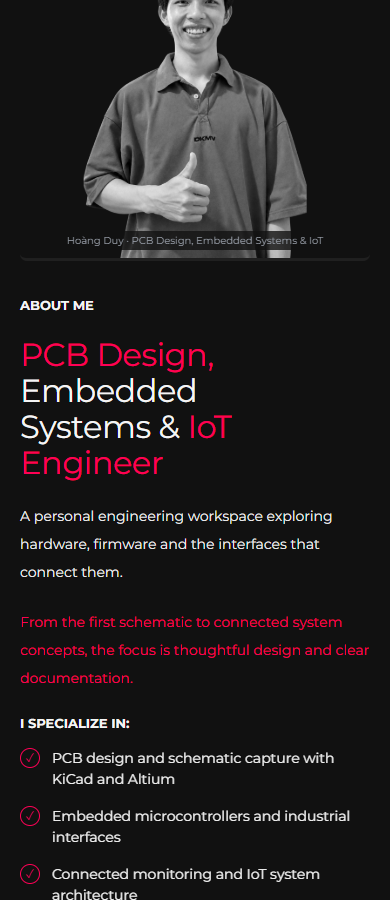
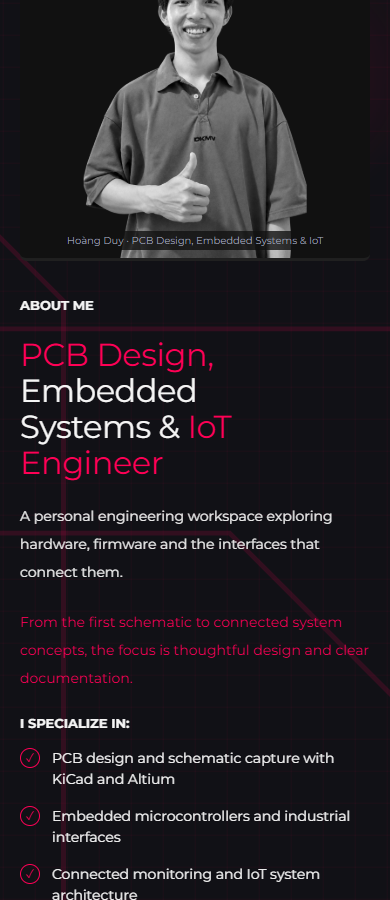
Add continuous PCB ambient background and compact topic ticker

diff --git a/src/components/PortfolioHome.tsx b/src/components/PortfolioHome.tsx
@@ -3,7 +3,6 @@ import { useState, type ReactNode } from 'react';
 import Link from 'next/link';
 import Image from 'next/image';
 import { boards } from '@/lib/projects';
-import { ReferenceIcon } from './ReferenceIcon';
 import { portrait, aboutPortrait } from '@/data/portfolio-media';
 import { usePortfolioMotion } from '@/hooks/usePortfolioMotion';
 import { useAnimatedPanel } from '@/hooks/useAnimatedPanel';
@@ -11,7 +10,6 @@ import { AnimatedRegion } from './animation/AnimatedRegion';
 import { AnimatedFAQ } from './animation/AnimatedFAQ';
 import { AnimatedCounter } from './animation/AnimatedCounter';
 import { ContactForm, SendEmail } from './ContactForm';
-import { CircuitBackground } from './backgrounds/CircuitBackground';
 import { ProjectCard } from './ProjectCard';
 import { ResumeDownload } from './ResumeDownload';
 import { VisionMarquee } from './VisionMarquee';
@@ -21,21 +19,18 @@ import { TechnicalSkills } from './TechnicalSkills';
 export function Heading({label,children,description}:{label:string;children:ReactNode;description?:string}){return <div className="ref-heading"><span>{label}</span><h2>{children}</h2>{description&&<p>{description}</p>}</div>}
 export function Action({children,outline=false,href='#contact'}:{children:ReactNode;outline?:boolean;href?:string}){return <Link className={'ref-button'+(outline?' outline':'')} href={href}>{children}</Link>}
 export function Socials(){return <PortfolioSocials/>}
-const capabilities=[['ϟ','PCB LAYOUT & ROUTING','Production-minded Design','Component placement, signal routing and clear manufacturing documentation.','KiCad · Altium'],['♡','EMBEDDED MICROCONTROLLERS','Connected Control','Microcontroller architecture, peripheral interfaces and firmware integration.','STM32 · ESP32'],['♧','INDUSTRIAL COMMUNICATION','Reliable Interfaces','System planning for robust communication between connected devices.','CAN · RS485'],['↔','ANALOG & DIGITAL INTERFACES','Clear Signal Paths','Sensor acquisition, digital control and interface protection studies.','ADC · GPIO'],['▱','POWER SUPPLY DESIGN','Thoughtful Power','Power architecture, regulation and distribution for embedded systems.','DC/DC · LDO'],['◇','IoT CONNECTIVITY','Remote Visibility','Connected hardware concepts for monitoring, telemetry and control.','Ethernet · Cellular']];
 export function CaseStudy({index=0}:{index?:number}){const board=boards[index];return <article className={'ref-case'+(!index?' featured':'')}><div className="ref-tags"><span>{!index?'Featured project':'Personal project'}</span><span>{board.name}</span></div><h3>{board.name}</h3><p className="ref-role">♧ Personal hardware & PCB design project</p><p className="ref-period">Original project image · Design documentation</p><h4>THE PROJECT</h4><p>{board.description}</p><h4>PROJECT WORK</h4><ul>{board.features.map(x=><li key={x}>{x}</li>)}</ul><h4>DESIGN SCOPE</h4><div className="ref-results">{board.scope.map(x=><div key={x}><strong><AnimatedCounter text={x}/></strong><small>Project scope</small></div>)}</div><h4>TECH STACK</h4><div className="ref-tags">{board.techStack.map(x=><span key={x}>{x}</span>)}</div></article>}
 export function PortfolioHome(){const[expanded,setExpanded]=useState(false);const{value:education,select:setEducation,panelRef}=useAnimatedPanel(false);const motionScope=usePortfolioMotion();return <div className="reference-home" ref={motionScope}>
-<section className="ref-hero ref-container circuit-section"><div><div className="ref-available"><i/>Open to Embedded & Hardware Engineering Opportunities</div><h1>Designing PCBs. Building Embedded Systems. Connecting Hardware.</h1><p className="ref-title">PCB Design | Embedded Systems | IoT Development</p><p className="ref-lead">I focus on electronic hardware design, from schematic development and multilayer PCB layout to microcontroller-based systems and industrial communication interfaces.</p><div className="ref-highlights"><span><b>PCB Design</b> KiCad & Altium</span><span><b>Embedded</b> STM32 & ESP32</span><span><b>IoT</b> Hardware Connectivity</span></div><blockquote><em>From schematic to PCB layout, firmware integration, and connected systems.</em><small>— Engineering Focus</small></blockquote><div className="ref-actions"><Action href="#projects">▱ View My Projects</Action><ResumeDownload outline/></div><p className="ref-note">Open to PCB design, embedded hardware and connected-system projects.</p><Socials/></div><figure className="ref-hero-art"><div className="ref-circle"/><div className="ref-portrait-window"><Image src={portrait.src} width={portrait.width} height={portrait.height} alt={portrait.alt} sizes="(max-width: 799px) 90vw, 520px" loading="eager" fetchPriority="high"/></div><figcaption>{portrait.caption}</figcaption></figure><CircuitBackground/></section>
+<section className="ref-hero ref-container circuit-section"><div><div className="ref-available"><i/>Open to Embedded & Hardware Engineering Opportunities</div><h1>Designing PCBs. Building Embedded Systems. Connecting Hardware.</h1><p className="ref-title">PCB Design | Embedded Systems | IoT Development</p><p className="ref-lead">I focus on electronic hardware design, from schematic development and multilayer PCB layout to microcontroller-based systems and industrial communication interfaces.</p><div className="ref-highlights"><span><b>PCB Design</b> KiCad & Altium</span><span><b>Embedded</b> STM32 & ESP32</span><span><b>IoT</b> Hardware Connectivity</span></div><blockquote><em>From schematic to PCB layout, firmware integration, and connected systems.</em><small>— Engineering Focus</small></blockquote><div className="ref-actions"><Action href="#projects">▱ View My Projects</Action><ResumeDownload outline/></div><p className="ref-note">Open to PCB design, embedded hardware and connected-system projects.</p><Socials/></div><figure className="ref-hero-art"><div className="ref-circle"/><div className="ref-portrait-window"><Image src={portrait.src} width={portrait.width} height={portrait.height} alt={portrait.alt} sizes="(max-width: 799px) 90vw, 520px" loading="eager" fetchPriority="high"/></div><figcaption>{portrait.caption}</figcaption></figure></section>
 <section className="ref-container ref-trust"><p>Engineering tools & platforms</p><div className="ref-tools">{['KiCad','Altium Designer','STM32','ESP32','JLCPCB'].map(x=><span key={x}>♧ &nbsp;{x}</span>)}</div><div className="ref-domain-grid">{[["HARDWARE","Hardware design","PCB schematic & layout"],["FIRMWARE","Firmware integration","Microcontrollers & interfaces"],["SOFTWARE","Software interfaces","Dashboards & monitoring"],["IoT","Connected systems","Sensors, telemetry & control"]].map(([label,title,description])=><article key={label}><span>{label}</span><h3>{title}</h3><p>{description}</p></article>)}</div></section>
 <section id="case-studies" className="ref-container ref-section"><Heading label="ENGINEERING STUDIES" description="My personal hardware projects, with original board images and design documentation.">Featured <em>Case Studies</em></Heading><CaseStudy/><div className="ref-two ref-case-grid"><CaseStudy index={1}/><CaseStudy index={2}/></div><div className="ref-strategy"><p>Have a hardware challenge to explore?</p><ResumeDownload/></div></section>
 <VisionMarquee/>
-<section id="projects" className="ref-container ref-section circuit-section"><Heading label="SELECTED WORK" description="Five personal PCB and embedded hardware projects. ESP32 Devkit, IoT Board and ESP32 Datalogger are featured first.">Recent <em>Projects</em></Heading><div className="ref-three ref-projects">{boards.slice(0,3).map(board=><ProjectCard key={board.slug} board={board}/>)}</div><AnimatedRegion open={expanded} id="additional-projects"><div className="ref-three ref-projects ref-extra">{boards.slice(3).map(board=><ProjectCard key={board.slug} board={board}/>)}</div></AnimatedRegion><button className="ref-expand" aria-controls="additional-projects" onClick={()=>setExpanded(!expanded)} aria-expanded={expanded}>{expanded?'▾ Show fewer projects':'▸ View 2 more projects'}</button><CircuitBackground variant="transition"/></section>
+<section id="projects" className="ref-container ref-section circuit-section"><Heading label="SELECTED WORK" description="Five personal PCB and embedded hardware projects. ESP32 Devkit, IoT Board and ESP32 Datalogger are featured first.">Recent <em>Projects</em></Heading><div className="ref-three ref-projects">{boards.slice(0,3).map(board=><ProjectCard key={board.slug} board={board}/>)}</div><AnimatedRegion open={expanded} id="additional-projects"><div className="ref-three ref-projects ref-extra">{boards.slice(3).map(board=><ProjectCard key={board.slug} board={board}/>)}</div></AnimatedRegion><button className="ref-expand" aria-controls="additional-projects" onClick={()=>setExpanded(!expanded)} aria-expanded={expanded}>{expanded?'▾ Show fewer projects':'▸ View 2 more projects'}</button></section>
 <section id="about" className="ref-container ref-about ref-section"><figure><Image src={aboutPortrait.src} alt={aboutPortrait.alt} width={aboutPortrait.width} height={aboutPortrait.height} sizes="(max-width: 799px) 90vw, 565px"/><figcaption>{aboutPortrait.caption}</figcaption></figure><div><span className="ref-label">ABOUT ME</span><h2><em>PCB Design,</em> Embedded<br/>Systems & <em>IoT Engineer</em></h2><p>A personal engineering workspace exploring hardware, firmware and the interfaces that connect them.</p><p className="pink">From the first schematic to connected system concepts, the focus is thoughtful design and clear documentation.</p><h4>I SPECIALIZE IN:</h4><ul className="ref-checks"><li>PCB design and schematic capture with KiCad and Altium</li><li>Embedded microcontrollers and industrial interfaces</li><li>Connected monitoring and IoT system architecture</li></ul><aside>✧ &nbsp; The project images show my personal board designs. Detailed test results and manufacturing status are not published.</aside><Socials/></div></section>
-<section className="ref-container ref-section"><Heading label="WHY THOUGHTFUL ENGINEERING MATTERS" description="Every design starts with system requirements: clear interfaces, maintainable circuits and a practical path to validation."><em>Capabilities</em> I Deliver,<br/>From Circuit to <em>System</em></Heading><div className="ref-three ref-capabilities">{capabilities.map(([icon,title,sub,desc,tags])=><article key={title}><span><ReferenceIcon symbol={icon}/></span><h4>{title}</h4><p className="pink">{sub}</p><p>{desc}</p><div className="ref-tags"><b>{tags}</b><b>Engineering studies</b></div></article>)}</div></section>
 <section id="resume" className="ref-container ref-section"><Heading label="PROJECT-BASED BACKGROUND" description="My personal hardware and embedded-system projects. Employment and education details will be added when supplied.">Engineering <em>Experience</em></Heading><div className="ref-tabs" role="tablist" aria-label="Background" onKeyDown={event=>{if(["ArrowLeft","ArrowRight","Home","End"].includes(event.key)){event.preventDefault();const next=event.key==="Home"?false:event.key==="End"?true:!education;setEducation(next);document.getElementById(next?"education-tab":"experience-tab")?.focus();}}}><button role="tab" id="experience-tab" aria-controls="career-panel" tabIndex={education?-1:0} aria-selected={!education} onClick={()=>setEducation(false)}>Experience</button><button role="tab" id="education-tab" aria-controls="career-panel" tabIndex={education?0:-1} aria-selected={education} onClick={()=>setEducation(true)}>Education</button></div><div className="ref-timeline" ref={panelRef} role="tabpanel" id="career-panel" aria-labelledby={education?"education-tab":"experience-tab"}>{education?<article><h3>Education details</h3><p>Education and qualifications will be added when provided by the portfolio owner.</p></article>:boards.map(board=><article key={board.slug}><i>▣</i><h3>{board.name}</h3><div className="timeline-role"><strong>Personal Hardware & PCB Project</strong><span>Personal project</span></div><div className="ref-tags"><span>PCB Design</span><span>Interfaces</span><span>Documentation</span></div><ul>{board.features.map(x=><li key={x}>{x}</li>)}</ul></article>)}</div></section>
 <TechnicalSkills/>
-<section className="ref-container ref-section"><Heading label="LET’S CONNECT" description="Whether you need engineering support for your project or you’re building your team, let’s discuss the requirements."><em>Work</em> With Me</Heading><div className="ref-two ref-work"><article><span className="ref-icon">♧</span><h3>Have a Hardware Project in Mind?</h3><p>From PCB layout to embedded interfaces and IoT architecture, share your requirements and let&apos;s explore the next step.</p><ResumeDownload/></article><article><span className="ref-icon">♙</span><h3>Open to Engineering Opportunities</h3><p>Interested in thoughtful hardware, embedded systems and connected-product work.</p><h4>Areas of interest:</h4><ul className="ref-checks"><li>PCB design and schematic capture</li><li>Embedded hardware development</li><li>Industrial interfaces and connectivity</li><li>Teams that value clear documentation</li></ul><Action outline href="#resume">♧ &nbsp; View Experience</Action><p className="work-direct">Or reach out directly:</p><a href="#contact">▣ &nbsp; Start a Conversation</a></article></div></section>
 <section id="faq" className="ref-container ref-section"><Heading label="QUESTIONS & ANSWERS" description="Common questions about engineering services, project scope and how I work.">Frequently Asked <em>Questions</em></Heading><div className="ref-faq">{[['What PCB design software do you use?','The workspace includes KiCad and Altium Designer studies. Tool choice depends on your project requirements.'],['Can you support hardware prototyping?','Prototype scope, assembly and validation requirements are agreed for each project.'],['Do you design multi-layer PCBs?','Layer count and stackup are selected according to routing, signal and power requirements.'],['Do you work with STM32 and ESP32?','These platforms are included in the embedded hardware design scope.'],['Which microcontrollers do you work with?','STM32, ESP32 and other devices can be considered based on your application.'],['Can you integrate IoT connectivity?','Connectivity architecture may include Ethernet, wireless and cellular interfaces.'],['Can you develop industrial interfaces?','CAN, RS485 and analog or digital interface planning can be scoped for your system.'],['Do you offer schematic reviews?','Reviews can cover architecture, interfaces, component selection and design documentation.'],['Do you provide manufacturing files?','Agreed deliverables can include BOM, Gerbers and assembly documentation after design review.'],['Can you help debug existing PCB designs?','Share schematics, symptoms and available measurements to establish a review and debugging scope.']].map(([q,a])=><AnimatedFAQ key={q} question={q} answer={a}/>)}</div></section>
-<section id="contact" className="ref-container ref-section ref-contact circuit-section"><div><span className="ref-label">GET IN TOUCH</span><h2>Let&apos;s Talk For your <em>Next Project(s)</em></h2><p>Discuss a project or just want to say hi? Share your requirements, explore my <a href="#case-studies">case studies</a>, review my <a href="#technical-skills">technical skills</a>, or check my <a href="#resume">engineering background.</a></p><ul className="ref-checks"><li>PCB design and schematic capture</li><li>Embedded systems and microcontrollers</li><li>Industrial communication interfaces</li><li>Connected hardware and IoT architecture</li></ul><div className="ref-contact-actions"><Socials/><SendEmail/></div></div><ContactForm/><CircuitBackground variant="contact"/></section>
+<section id="contact" className="ref-container ref-section ref-contact circuit-section"><div><span className="ref-label">GET IN TOUCH</span><h2>Let&apos;s Talk For your <em>Next Project(s)</em></h2><p>Discuss a project or just want to say hi? Share your requirements, explore my <a href="#case-studies">case studies</a>, review my <a href="#technical-skills">technical skills</a>, or check my <a href="#resume">engineering background.</a></p><ul className="ref-checks"><li>PCB design and schematic capture</li><li>Embedded systems and microcontrollers</li><li>Industrial communication interfaces</li><li>Connected hardware and IoT architecture</li></ul><div className="ref-contact-actions"><Socials/><SendEmail/></div></div><ContactForm/></section>
 </div>}
 
 

diff --git a/src/app/pcb-ambient.css b/src/app/pcb-ambient.css
@@ -1,0 +1,25 @@
+/* One viewport-sized PCB surface behind the entire application. */
+:root{--background:#111116;--page-base:#111116}
+body{background:#111116;isolation:isolate}
+.pcb-ambient{position:fixed;inset:0;z-index:-1;pointer-events:none;overflow:hidden;background:#111116;contain:paint}
+.pcb-ambient-grid{position:absolute;inset:-32px;background-image:linear-gradient(to right,rgba(255,0,85,.065) 1px,transparent 1px),linear-gradient(to bottom,rgba(255,0,85,.065) 1px,transparent 1px);background-size:32px 32px;animation:pcb-grid-drift 25s linear infinite;will-change:transform}
+.pcb-ambient-glow{position:absolute;width:260px;height:260px;top:-65px;left:40%;border-radius:50%;background:radial-gradient(circle,rgba(255,0,85,.18),transparent 70%);animation:pcb-glow-drift 9s ease-in-out infinite alternate;will-change:transform}
+.pcb-ambient-circuits{position:absolute;inset:0;width:100%;height:100%;display:block}
+.pcb-ambient-traces{stroke:#ff0055;stroke-opacity:.19;stroke-width:1.4;fill:none}
+.pcb-ambient-signals{stroke:#ff0055;stroke-width:2.5;stroke-linecap:round;stroke-dasharray:8 290;fill:none}
+.pcb-ambient-pulse{animation:pcb-signal-travel 5s linear infinite}
+.pcb-ambient-pulse-second{animation-duration:7s;animation-delay:-2.5s}
+.pcb-ambient-nodes{fill:#ff0055;opacity:.65}
+.pcb-ambient[data-paused="true"] *{animation-play-state:paused!important}
+.site-header{background:transparent}
+.site-footer{background:rgba(31,31,31,.78)}
+@keyframes pcb-grid-drift{from{transform:translate(0,0)}to{transform:translate(32px,32px)}}
+@keyframes pcb-glow-drift{from{transform:translate(0,0)}to{transform:translate(110px,80px)}}
+@keyframes pcb-signal-travel{from{stroke-dashoffset:0}to{stroke-dashoffset:-298}}
+
+/* Compact technical ticker, with identical groups for a seamless loop. */
+.vision-marquee{padding:14px 0;border-block:1px solid #ff00551a;background:#17131a88;mask-image:linear-gradient(90deg,transparent,#000 3%,#000 97%,transparent)}
+.vision-marquee-group span{font-family:ui-monospace,SFMono-Regular,Consolas,monospace;font-size:12px;line-height:1.5;font-weight:500;letter-spacing:1px;color:#b98c9c;text-shadow:none;gap:32px;padding-right:32px}
+.vision-marquee-group i{font-size:12px;color:#ff0055;opacity:.6}
+@media(max-width:799px){.pcb-ambient-grid,.pcb-ambient-glow,.pcb-ambient-circuits{opacity:.72}}
+@media(prefers-reduced-motion:reduce){.pcb-ambient-grid,.pcb-ambient-glow,.pcb-ambient-pulse{animation:none;will-change:auto}}

diff --git a/src/app/layout.tsx b/src/app/layout.tsx
@@ -2,12 +2,14 @@ import type { Metadata } from 'next';
 import { Header } from '@/components/Header';
 import { Footer } from '@/components/Footer';
 import { site } from '@/data/site';
+import { PCBAnimatedBackground } from '@/components/backgrounds/PCBAnimatedBackground';
 import './globals.css';
 import './workspace.css';
 import './reference.css';
+import './pcb-ambient.css';
 export const metadata: Metadata = { metadataBase: new URL(site.url), title: { default: 'Hardware Lab — Engineering in every layer', template: '%s | Hardware Lab' }, description: site.description, alternates: { canonical: '/' }, openGraph: { title: site.name, description: site.description, type: 'website', images: [{ url: '/assets/social.png', width: 1200, height: 630, alt: 'Hardware Lab engineering studio' }] }, robots: process.env.NEXT_PUBLIC_SITE_URL ? { index: true, follow: true } : { index: false, follow: false } };
 export default function RootLayout({ children }: { children: React.ReactNode }) {
-  return <html lang="en" data-scroll-behavior="smooth"><head><link rel="preload" href="/assets/fonts/montserrat-900.ttf" as="font" type="font/ttf" crossOrigin="anonymous"/><link rel="preload" href="/assets/fonts/montserrat-400.ttf" as="font" type="font/ttf" crossOrigin="anonymous"/><link rel="preload" href="/assets/fonts/pacifico-400.ttf" as="font" type="font/ttf" crossOrigin="anonymous"/></head><body><a className="skip-link" href="#main">Skip to content</a><Header /><main id="main">{children}</main><Footer /></body></html>;
+  return <html lang="en" data-scroll-behavior="smooth"><head><link rel="preload" href="/assets/fonts/montserrat-900.ttf" as="font" type="font/ttf" crossOrigin="anonymous"/><link rel="preload" href="/assets/fonts/montserrat-400.ttf" as="font" type="font/ttf" crossOrigin="anonymous"/><link rel="preload" href="/assets/fonts/pacifico-400.ttf" as="font" type="font/ttf" crossOrigin="anonymous"/></head><body><PCBAnimatedBackground/><a className="skip-link" href="#main">Skip to content</a><Header /><main id="main">{children}</main><Footer /></body></html>;
 }
 
 

diff --git a/src/components/backgrounds/PCBAnimatedBackground.tsx b/src/components/backgrounds/PCBAnimatedBackground.tsx
@@ -1,0 +1,30 @@
+'use client';
+import {useEffect,useRef} from 'react';
+
+const traces=[
+ 'M-10 54 H135 L176 95 H390 L430 55 H620',
+ 'M-10 200 H105 L151 154 H310 L365 209 H620',
+ 'M480 -10 V80 L448 112 V180 L510 242',
+ 'M220 -10 V45 L262 87 V260',
+ 'M-10 116 H60 L91 147',
+];
+const nodes=[[176,95],[390,95],[151,154],[448,112]];
+
+/** A single, persistent decorative layer. CSS owns every animation frame. */
+export function PCBAnimatedBackground(){
+ const ref=useRef<HTMLDivElement>(null);
+ useEffect(()=>{
+  const update=()=>{if(ref.current)ref.current.dataset.paused=String(document.hidden);};
+  update();document.addEventListener('visibilitychange',update);
+  return ()=>document.removeEventListener('visibilitychange',update);
+ },[]);
+ return <div ref={ref} className="pcb-ambient" aria-hidden="true">
+  <div className="pcb-ambient-grid"/>
+  <div className="pcb-ambient-glow"/>
+  <svg className="pcb-ambient-circuits" viewBox="0 0 600 260" preserveAspectRatio="xMidYMid slice" focusable="false">
+   <g className="pcb-ambient-traces">{traces.map(d=><path key={d} d={d}/>)}</g>
+   <g className="pcb-ambient-signals"><path className="pcb-ambient-pulse" d={traces[0]}/><path className="pcb-ambient-pulse pcb-ambient-pulse-second" d={traces[1]}/></g>
+   <g className="pcb-ambient-nodes">{nodes.map(([cx,cy])=><circle key={`${cx}-${cy}`} cx={cx} cy={cy} r="3"/>)}</g>
+  </svg>
+ </div>;
+}

diff --git a/src/components/VisionMarquee.tsx b/src/components/VisionMarquee.tsx
@@ -1,8 +1,8 @@
-const phrase='IOT VISION FROM LAB TO LIFE';
+const topics=['PCB DESIGN','IOT','FIRMWARE','WEARABLE TECH','AI','EMBEDDED SYSTEMS'];
 export function VisionMarquee(){
-  return <section className="vision-marquee" aria-label={phrase}>
+  return <section className="vision-marquee" aria-label={topics.join(' · ')}>
     <div className="vision-marquee-track" aria-hidden="true">
-      {[0,1].map(copy=><div className="vision-marquee-group" key={copy}>{[0,1,2].map(index=><span key={index}>{phrase}<i>✦</i></span>)}</div>)}
+      {[0,1].map(copy=><div className="vision-marquee-group" key={copy}>{[0,1].map(repeat=>topics.map(topic=><span key={`${repeat}-${topic}`}>{topic}<i>·</i></span>))}</div>)}
     </div>
   </section>;
 }

diff --git a/docs/pcb-ambient/README.md b/docs/pcb-ambient/README.md
@@ -1,0 +1,22 @@
+# Continuous PCB ambient background
+
+The background is mounted once in the application layout and remains fixed across Home, Boards and project details. The old per-section circuit components are no longer rendered.
+
+## Files changed
+- src/components/backgrounds/PCBAnimatedBackground.tsx: deterministic SVG routes and four nodes; hidden-tab pause without frame-driven React state.
+- src/app/pcb-ambient.css: 32px grid, pink glow, signal keyframes, continuous header/footer integration, reduced motion and compact ticker styling.
+- src/app/layout.tsx: mount the background once and load its styles after the reference stylesheet.
+- src/components/PortfolioHome.tsx: remove Capabilities and Work With Me; remove per-section backgrounds.
+- src/components/VisionMarquee.tsx: PCB DESIGN / IOT / FIRMWARE / WEARABLE TECH / AI / EMBEDDED SYSTEMS with dot separators.
+- scripts/check-pcb-ambient.mjs: geometry, timing, continuity, navigation, mobile and accessibility checks.
+
+## Verification
+- Exact supplied five SVG paths, viewBox 0 0 600 260, xMidYMid slice and four nodes.
+- Grid: 32px, 25s diagonal translation. Glow: 260px, 9s alternate. Pulses: 5s and 7s, second delay -2.5s.
+- Motion advances without scrolling, pauses when the tab is hidden, and becomes static with reduced motion.
+- Fixed background retains its viewport box at the footer and persists through client navigation.
+- Seven viewport widths: 1479, 1280, 1024, 800, 768, 390 and 375; no horizontal overflow.
+- Production build, lint, 12 unit tests, static export (30 pages, 1,427 internal references, 66 images) and interaction suite passed.
+- Existing project images, content, portrait geometry, menu, tabs, FAQ, form and scroll reveals remain functional.
+
+The installed Next.js version still reports a security upgrade recommendation. The build completes on retry; dependencies were not changed by this visual task.
